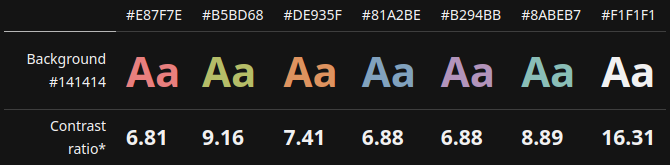
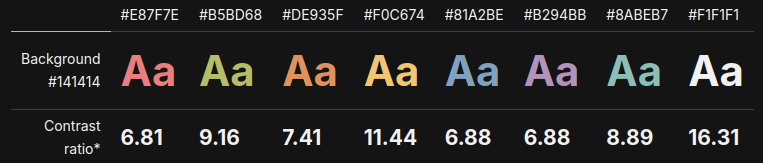
docs: update palette with missing color

diff --git a/README.md b/README.md
@@ -11,6 +11,7 @@ Code Hybrid theme is a dark color scheme with reduced brightness based on [w0ng'
         <td>#E87F7E</td>
         <td>#B5BD68</td>
         <td>#DE935F</td>
+        <td>#F0C674</td>
         <td>#81A2BE</td>
         <td>#B294BB</td>
         <td>#8ABEB7</td>
@@ -21,6 +22,7 @@ Code Hybrid theme is a dark color scheme with reduced brightness based on [w0ng'
         <td style="font-size: 42px;font-weight: bold;color: #E87F7E">Aa</td>
         <td style="font-size: 42px;font-weight: bold;color: #B5BD68">Aa</td>
         <td style="font-size: 42px;font-weight: bold;color: #DE935F">Aa</td>
+        <td style="font-size: 42px;font-weight: bold;color: #F0C674">Aa</td>
         <td style="font-size: 42px;font-weight: bold;color: #81A2BE">Aa</td>
         <td style="font-size: 42px;font-weight: bold;color: #B294BB">Aa</td>
         <td style="font-size: 42px;font-weight: bold;color: #8ABEB7">Aa</td>
@@ -31,15 +33,15 @@ Code Hybrid theme is a dark color scheme with reduced brightness based on [w0ng'
         <td style="font-size: 21px;font-weight: bold">6.81</td>
         <td style="font-size: 21px;font-weight: bold">9.16</td>
         <td style="font-size: 21px;font-weight: bold">7.41</td>
+        <td style="font-size: 21px;font-weight: bold">11.44</td>
         <td style="font-size: 21px;font-weight: bold">6.88</td>
         <td style="font-size: 21px;font-weight: bold">6.88</td>
         <td style="font-size: 21px;font-weight: bold">8.89</td>
         <td style="font-size: 21px;font-weight: bold">16.31</td>
     </tr>
-</table>
--->
+</table> -->
 
-<small>\* Constrast ratio of 7+ is a level AAA in WCAG 2.2</small>
+<small>\* Constrast ratio of 7+ is a level AAA compliance in WCAG 2.2</small>
 
 ## Support
 
